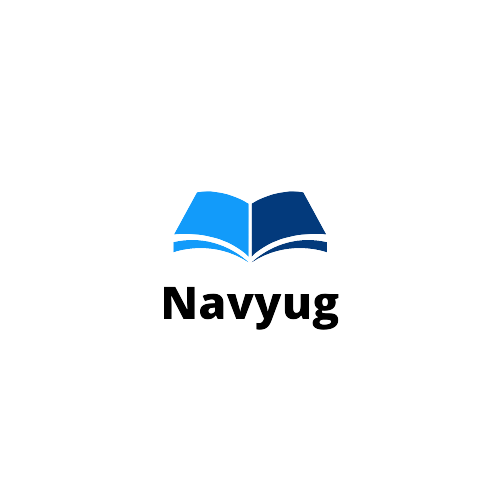
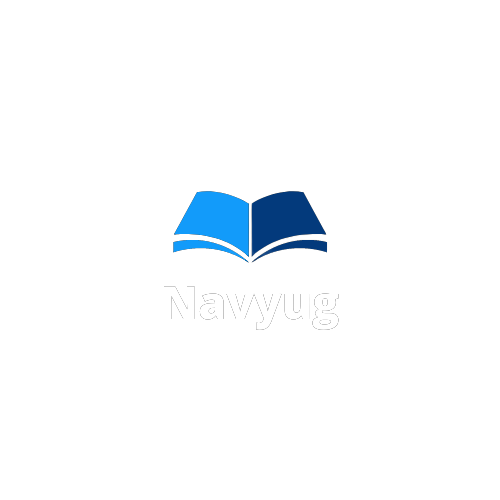
commit

Changed region(s): [[0.33, 0.57, 0.69, 0.66], [0.39, 0.42, 0.6, 0.54]]

diff --git a/resources/views/contact.blade.php b/resources/views/contact.blade.php
@@ -12,12 +12,12 @@
   <meta name="description" content="" />
   <meta name="author" content="" />
 
-  <title>Fanadesh</title>
+  <title>Navyug</title> 
 
 
 
   <!-- bootstrap core css -->
-  <link rel="stylesheet" type="text/css" href="css/bootstrap.css" />
+  <link rel="stylesheet" type="text/css" href="{{ asset('css/bootstrap.css') }}" />
   <!-- progress barstle -->
   <link rel="stylesheet" href="css/css-circular-prog-bar.css">
   <!-- fonts style -->
@@ -25,9 +25,9 @@
   <!-- font wesome stylesheet -->
   <link rel="stylesheet" href="https://maxcdn.bootstrapcdn.com/font-awesome/4.3.0/css/font-awesome.min.css">
   <!-- Custom styles for this template -->
-  <link href="css/style.css" rel="stylesheet" />
+  <link href="{{ asset('css/style.css') }}" rel="stylesheet" />
   <!-- responsive style -->
-  <link href="css/responsive.css" rel="stylesheet" />
+  <link href="{{ asset('css/responsive.css') }}" rel="stylesheet" />
 
 
 
@@ -37,17 +37,18 @@
 
 </head>
 
-<body class="sub_page">
-  <div class="top_container ">
+<body>
+  <div class="top_container">
     <!-- header section strats -->
     <header class="header_section">
       <div class="container">
         <nav class="navbar navbar-expand-lg custom_nav-container ">
-          <a class="navbar-brand" href="/">
-            <span>
-              Fanadesh
-            </span>
-          </a>
+        <a href="/">
+          <img src="images/navyug.png"  width="250" 
+     height="260" >
+            
+    </img>
+  </a>
           <button class="navbar-toggler" type="button" data-toggle="collapse" data-target="#navbarSupportedContent"
             aria-controls="navbarSupportedContent" aria-expanded="false" aria-label="Toggle navigation">
             <span class="navbar-toggler-icon"></span>
@@ -136,9 +137,8 @@
   <!-- end contact section -->
   <section class="info_section layout_padding-top">
     <div class="info_logo-box">
-      <h2>
-        Fanadesh
-      </h2>
+    <img src="images/navyug.png"  width="300" 
+     height="280" >
     </div>
     <div class="container layout_padding2">
       <div class="row">

diff --git a/resources/views/admission.blade.php b/resources/views/admission.blade.php
@@ -12,12 +12,12 @@
   <meta name="description" content="" />
   <meta name="author" content="" />
 
-  <title>Fanadesh</title>
+  <title>Navyug</title> 
 
 
 
   <!-- bootstrap core css -->
-  <link rel="stylesheet" type="text/css" href="css/bootstrap.css" />
+  <link rel="stylesheet" type="text/css" href="{{ asset('css/bootstrap.css') }}" />
   <!-- progress barstle -->
   <link rel="stylesheet" href="css/css-circular-prog-bar.css">
   <!-- fonts style -->
@@ -25,9 +25,9 @@
   <!-- font wesome stylesheet -->
   <link rel="stylesheet" href="https://maxcdn.bootstrapcdn.com/font-awesome/4.3.0/css/font-awesome.min.css">
   <!-- Custom styles for this template -->
-  <link href="css/style.css" rel="stylesheet" />
+  <link href="{{ asset('css/style.css') }}" rel="stylesheet" />
   <!-- responsive style -->
-  <link href="css/responsive.css" rel="stylesheet" />
+  <link href="{{ asset('css/responsive.css') }}" rel="stylesheet" />
 
 
 
@@ -37,17 +37,18 @@
 
 </head>
 
-<body class="sub_page">
-  <div class="top_container ">
+<body>
+  <div class="top_container">
     <!-- header section strats -->
     <header class="header_section">
       <div class="container">
         <nav class="navbar navbar-expand-lg custom_nav-container ">
-          <a class="navbar-brand" href="/">
-            <span>
-              Fanadesh
-            </span>
-          </a>
+        <a href="/">
+          <img src="images/navyug.png"  width="250" 
+     height="260" >
+            
+    </img>
+  </a>
           <button class="navbar-toggler" type="button" data-toggle="collapse" data-target="#navbarSupportedContent"
             aria-controls="navbarSupportedContent" aria-expanded="false" aria-label="Toggle navigation">
             <span class="navbar-toggler-icon"></span>
@@ -128,9 +129,8 @@
   <!-- info section -->
   <section class="info_section layout_padding-top">
     <div class="info_logo-box">
-      <h2>
-        Fanadesh
-      </h2>
+    <img src="images/navyug.png"  width="300" 
+     height="280" >
     </div>
     <div class="container layout_padding2">
       <div class="row">

diff --git a/resources/views/why.blade.php b/resources/views/why.blade.php
@@ -12,12 +12,12 @@
   <meta name="description" content="" />
   <meta name="author" content="" />
 
-  <title>Fanadesh</title>
+  <title>Navyug</title> 
 
 
 
   <!-- bootstrap core css -->
-  <link rel="stylesheet" type="text/css" href="css/bootstrap.css" />
+  <link rel="stylesheet" type="text/css" href="{{ asset('css/bootstrap.css') }}" />
   <!-- progress barstle -->
   <link rel="stylesheet" href="css/css-circular-prog-bar.css">
   <!-- fonts style -->
@@ -25,9 +25,9 @@
   <!-- font wesome stylesheet -->
   <link rel="stylesheet" href="https://maxcdn.bootstrapcdn.com/font-awesome/4.3.0/css/font-awesome.min.css">
   <!-- Custom styles for this template -->
-  <link href="css/style.css" rel="stylesheet" />
+  <link href="{{ asset('css/style.css') }}" rel="stylesheet" />
   <!-- responsive style -->
-  <link href="css/responsive.css" rel="stylesheet" />
+  <link href="{{ asset('css/responsive.css') }}" rel="stylesheet" />
 
 
 
@@ -37,17 +37,18 @@
 
 </head>
 
-<body class="sub_page">
-  <div class="top_container ">
+<body>
+  <div class="top_container">
     <!-- header section strats -->
     <header class="header_section">
       <div class="container">
         <nav class="navbar navbar-expand-lg custom_nav-container ">
-          <a class="navbar-brand" href="/">
-            <span>
-              Fanadesh
-            </span>
-          </a>
+        <a href="/">
+          <img src="images/navyug.png"  width="250" 
+     height="260" >
+            
+    </img>
+  </a>
           <button class="navbar-toggler" type="button" data-toggle="collapse" data-target="#navbarSupportedContent"
             aria-controls="navbarSupportedContent" aria-expanded="false" aria-label="Toggle navigation">
             <span class="navbar-toggler-icon"></span>
@@ -124,9 +125,8 @@
   <!-- info section -->
   <section class="info_section layout_padding-top">
     <div class="info_logo-box">
-      <h2>
-        Fanadesh
-      </h2>
+    <img src="images/navyug.png"  width="300" 
+     height="280" >
     </div>
     <div class="container layout_padding2">
       <div class="row">

diff --git a/resources/views/about.blade.php b/resources/views/about.blade.php
@@ -12,12 +12,12 @@
   <meta name="description" content="" />
   <meta name="author" content="" />
 
-  <title>Fanadesh</title>
+  <title>Navyug</title> 
 
 
 
   <!-- bootstrap core css -->
-  <link rel="stylesheet" type="text/css" href="css/bootstrap.css" />
+  <link rel="stylesheet" type="text/css" href="{{ asset('css/bootstrap.css') }}" />
   <!-- progress barstle -->
   <link rel="stylesheet" href="css/css-circular-prog-bar.css">
   <!-- fonts style -->
@@ -25,9 +25,9 @@
   <!-- font wesome stylesheet -->
   <link rel="stylesheet" href="https://maxcdn.bootstrapcdn.com/font-awesome/4.3.0/css/font-awesome.min.css">
   <!-- Custom styles for this template -->
-  <link href="css/style.css" rel="stylesheet" />
+  <link href="{{ asset('css/style.css') }}" rel="stylesheet" />
   <!-- responsive style -->
-  <link href="css/responsive.css" rel="stylesheet" />
+  <link href="{{ asset('css/responsive.css') }}" rel="stylesheet" />
 
 
 
@@ -37,17 +37,18 @@
 
 </head>
 
-<body class="sub_page">
-  <div class="top_container ">
+<body>
+  <div class="top_container">
     <!-- header section strats -->
     <header class="header_section">
       <div class="container">
         <nav class="navbar navbar-expand-lg custom_nav-container ">
-          <a class="navbar-brand" href="/">
-            <span>
-              Fanadesh
-            </span>
-          </a>
+        <a href="/">
+          <img src="images/navyug.png"  width="250" 
+     height="260" >
+            
+    </img>
+  </a>
           <button class="navbar-toggler" type="button" data-toggle="collapse" data-target="#navbarSupportedContent"
             aria-controls="navbarSupportedContent" aria-expanded="false" aria-label="Toggle navigation">
             <span class="navbar-toggler-icon"></span>
@@ -126,9 +127,8 @@
 
   <section class="info_section layout_padding-top">
     <div class="info_logo-box">
-      <h2>
-        Fanadesh
-      </h2>
+    <img src="images/navyug.png"  width="300" 
+     height="280" >
     </div>
     <div class="container layout_padding2">
       <div class="row">

diff --git a/resources/views/index.blade.php b/resources/views/index.blade.php
@@ -12,7 +12,7 @@
   <meta name="description" content="" />
   <meta name="author" content="" />
 
-  <title>Fanadesh</title> 
+  <title>Navyug</title> 
 
 
 
@@ -45,7 +45,7 @@
         <nav class="navbar navbar-expand-lg custom_nav-container ">
         <a href="/">
           <img src="images/navyug.png"  width="250" 
-     height="230" >
+     height="260" >
             
     </img>
   </a>
@@ -384,9 +384,8 @@
       <!-- end contact section -->
       <section class="info_section layout_padding-top">
         <div class="info_logo-box">
-          <h2>
-              Fanadesh
-          </h2>
+        <img src="images/navyug.png"  width="300" 
+     height="280" >
         </div>
           <div class="container layout_padding2">
             <div class="row">

diff --git a/app/Models/Admissions.php b/app/Models/Admissions.php
@@ -1,0 +1,11 @@
+<?php
+
+namespace App\Models;
+
+use Illuminate\Database\Eloquent\Factories\HasFactory;
+use Illuminate\Database\Eloquent\Model;
+
+class Admissions extends Model
+{
+    use HasFactory;
+}
